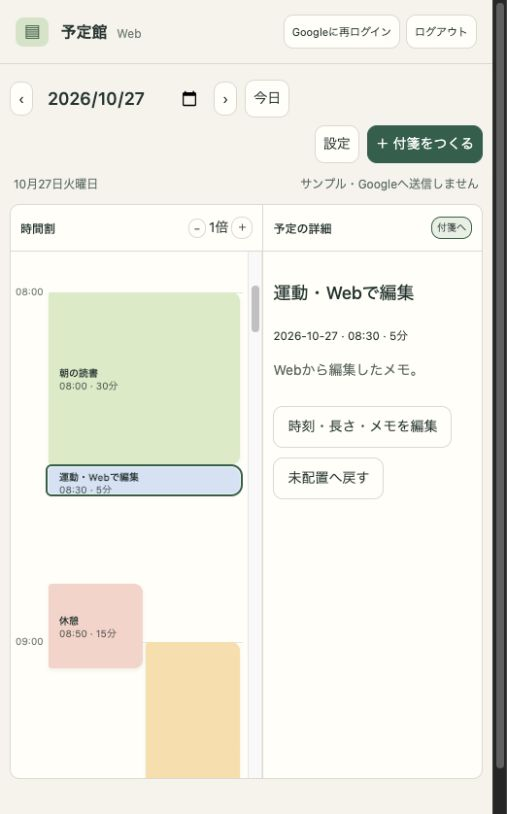
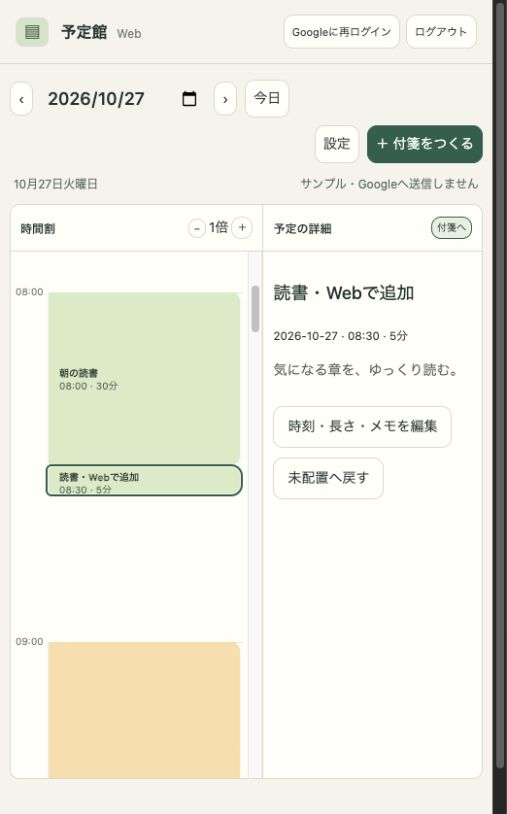
Prepare static export and GitHub Pages deployment for yoteikan.sfuji.org

diff --git a/web/static/index.html b/web/static/index.html
@@ -1,7 +1,7 @@
 <!doctype html>
-<html lang="ja"><head><meta charset="utf-8"><meta name="viewport" content="width=device-width,initial-scale=1"><meta name="description" content="予定館のWeb版。付箋で一日の予定を組み、Google DriveでiPhoneと同期できます。"><title>予定館 Web</title><link rel="stylesheet" href="/style.css"><script src="https://accounts.google.com/gsi/client" defer></script><script type="module" src="/app.mjs"></script></head>
+<html lang="ja"><head><meta charset="utf-8"><meta name="viewport" content="width=device-width,initial-scale=1"><meta name="referrer" content="strict-origin-when-cross-origin"><meta http-equiv="Content-Security-Policy" content="default-src 'self'; script-src 'self' https://accounts.google.com/gsi/client; style-src 'self' https://accounts.google.com/gsi/style; frame-src https://accounts.google.com; connect-src 'self' https://accounts.google.com https://www.googleapis.com https://openidconnect.googleapis.com; img-src 'self' data:; object-src 'none'; base-uri 'none'; form-action 'self'"><meta name="description" content="予定館のWeb版。付箋で一日の予定を組み、Google DriveでiPhoneと同期できます。"><title>予定館 Web</title><link rel="stylesheet" href="style.css"><script src="https://accounts.google.com/gsi/client" defer></script><script type="module" src="app.mjs"></script></head>
 <body>
-<header><a class="brand" href="/" aria-label="予定館 Web ホーム"><span class="brand-icon">▤</span><span>予定館 <small>Web</small></span></a><div class="account"><span id="accountLabel">あなたの一日を、付箋で。</span><button id="login">Googleでログイン</button><button id="logout" hidden>ログアウト</button></div></header>
+<header><a class="brand" href="./" aria-label="予定館 Web ホーム"><span class="brand-icon">▤</span><span>予定館 <small>Web</small></span></a><div class="account"><span id="accountLabel">あなたの一日を、付箋で。</span><button id="login">Googleでログイン</button><button id="logout" hidden>ログアウト</button></div></header>
 <main>
 <section id="welcome" class="welcome"><p class="eyebrow">一日を、自分のペースで。</p><h1>予定を置いて、<br>余白をつくる。</h1><p>長さを決めた付箋を、時間割へ。<br>予定が変わったら、動かして組み直す。<br>iPhoneで組んだ一日も、ここから編集できます。</p><button id="welcomeLogin" class="primary">Googleでログインして始める</button><button id="demo">サンプルで試す</button><p class="hint">Google Driveのアプリ専用領域で同期します。<br>Googleログインをせずに、サンプルの操作も試せます。</p></section>
 <section id="workspace" hidden>

diff --git a/web/main.go b/web/main.go
@@ -3,16 +3,48 @@ package main
 import (
 	"embed"
 	"encoding/json"
+	"flag"
 	"io/fs"
 	"log"
 	"net/http"
 	"os"
+	"path/filepath"
 	"regexp"
 	"time"
 )
 
 //go:embed static
 var assets embed.FS
+
+// exportSite emits only public browser assets. Google tokens never pass through Go.
+func exportSite(directory, clientID string) error {
+	if err := os.MkdirAll(directory, 0755); err != nil {
+		return err
+	}
+	if err := fs.WalkDir(assets, "static", func(path string, entry fs.DirEntry, err error) error {
+		if err != nil {
+			return err
+		}
+		if entry.IsDir() {
+			return nil
+		}
+		data, err := assets.ReadFile(path)
+		if err != nil {
+			return err
+		}
+		return os.WriteFile(filepath.Join(directory, filepath.Base(path)), data, 0644)
+	}); err != nil {
+		return err
+	}
+	config, err := json.Marshal(map[string]string{"clientID": clientID})
+	if err != nil {
+		return err
+	}
+	if err := os.WriteFile(filepath.Join(directory, "config.json"), config, 0644); err != nil {
+		return err
+	}
+	return os.WriteFile(filepath.Join(directory, ".nojekyll"), nil, 0644)
+}
 
 func handler(clientID string) http.Handler {
 	files, _ := fs.Sub(assets, "static")
@@ -32,9 +64,18 @@ func handler(clientID string) http.Handler {
 	})
 }
 func main() {
+	exportDirectory := flag.String("export", "", "Export static files for GitHub Pages instead of starting a server")
+	flag.Parse()
 	clientID := os.Getenv("GOOGLE_WEB_CLIENT_ID")
 	if clientID != "" && !regexp.MustCompile(`^[0-9]+-[a-zA-Z0-9_-]+\.apps\.googleusercontent\.com$`).MatchString(clientID) {
 		log.Fatal("GOOGLE_WEB_CLIENT_ID must be a web OAuth client ID")
+	}
+	if *exportDirectory != "" {
+		if err := exportSite(*exportDirectory, clientID); err != nil {
+			log.Fatal(err)
+		}
+		log.Printf("Exported Yoteikan Web to %s", *exportDirectory)
+		return
 	}
 	address := os.Getenv("LISTEN_ADDR")
 	if address == "" {

diff --git a/web/main_test.go b/web/main_test.go
@@ -2,7 +2,10 @@ package main
 
 import (
 	"encoding/json"
+	"net/http"
 	"net/http/httptest"
+	"os"
+	"path/filepath"
 	"strings"
 	"testing"
 )
@@ -37,5 +40,39 @@ func TestEmbeddedAppAndNoSourceExposure(t *testing.T) {
 		if strings.Contains(w.Body.String(), "package main") {
 			t.Fatal("server source exposed")
 		}
+	}
+}
+
+func TestExportForPages(t *testing.T) {
+	dir := t.TempDir()
+	if err := exportSite(dir, "123-web.apps.googleusercontent.com"); err != nil {
+		t.Fatal(err)
+	}
+	for _, path := range []string{"index.html", "app.mjs", "sync.mjs", "style.css", "config.json", ".nojekyll"} {
+		if _, err := os.Stat(filepath.Join(dir, path)); err != nil {
+			t.Fatal(err)
+		}
+	}
+	h := http.FileServer(http.Dir(dir))
+	for _, path := range []string{"/index.html", "/app.mjs", "/config.json"} {
+		w := httptest.NewRecorder()
+		h.ServeHTTP(w, httptest.NewRequest("GET", path, nil))
+		if w.Code != 200 && w.Code != 301 {
+			t.Fatalf("static %s: %d", path, w.Code)
+		}
+	}
+	data, err := os.ReadFile(filepath.Join(dir, "index.html"))
+	if err != nil {
+		t.Fatal(err)
+	}
+	if strings.Contains(string(data), `src="/app.mjs"`) || !strings.Contains(string(data), `src="app.mjs"`) {
+		t.Fatal("assets must also work under a repository subpath")
+	}
+	config, _ := os.ReadFile(filepath.Join(dir, "config.json"))
+	if !strings.Contains(string(config), "123-web.apps.googleusercontent.com") {
+		t.Fatal("missing web client ID")
+	}
+	if _, err := os.Stat(filepath.Join(dir, "main.go")); !os.IsNotExist(err) {
+		t.Fatal("server source should not be exported")
 	}
 }
